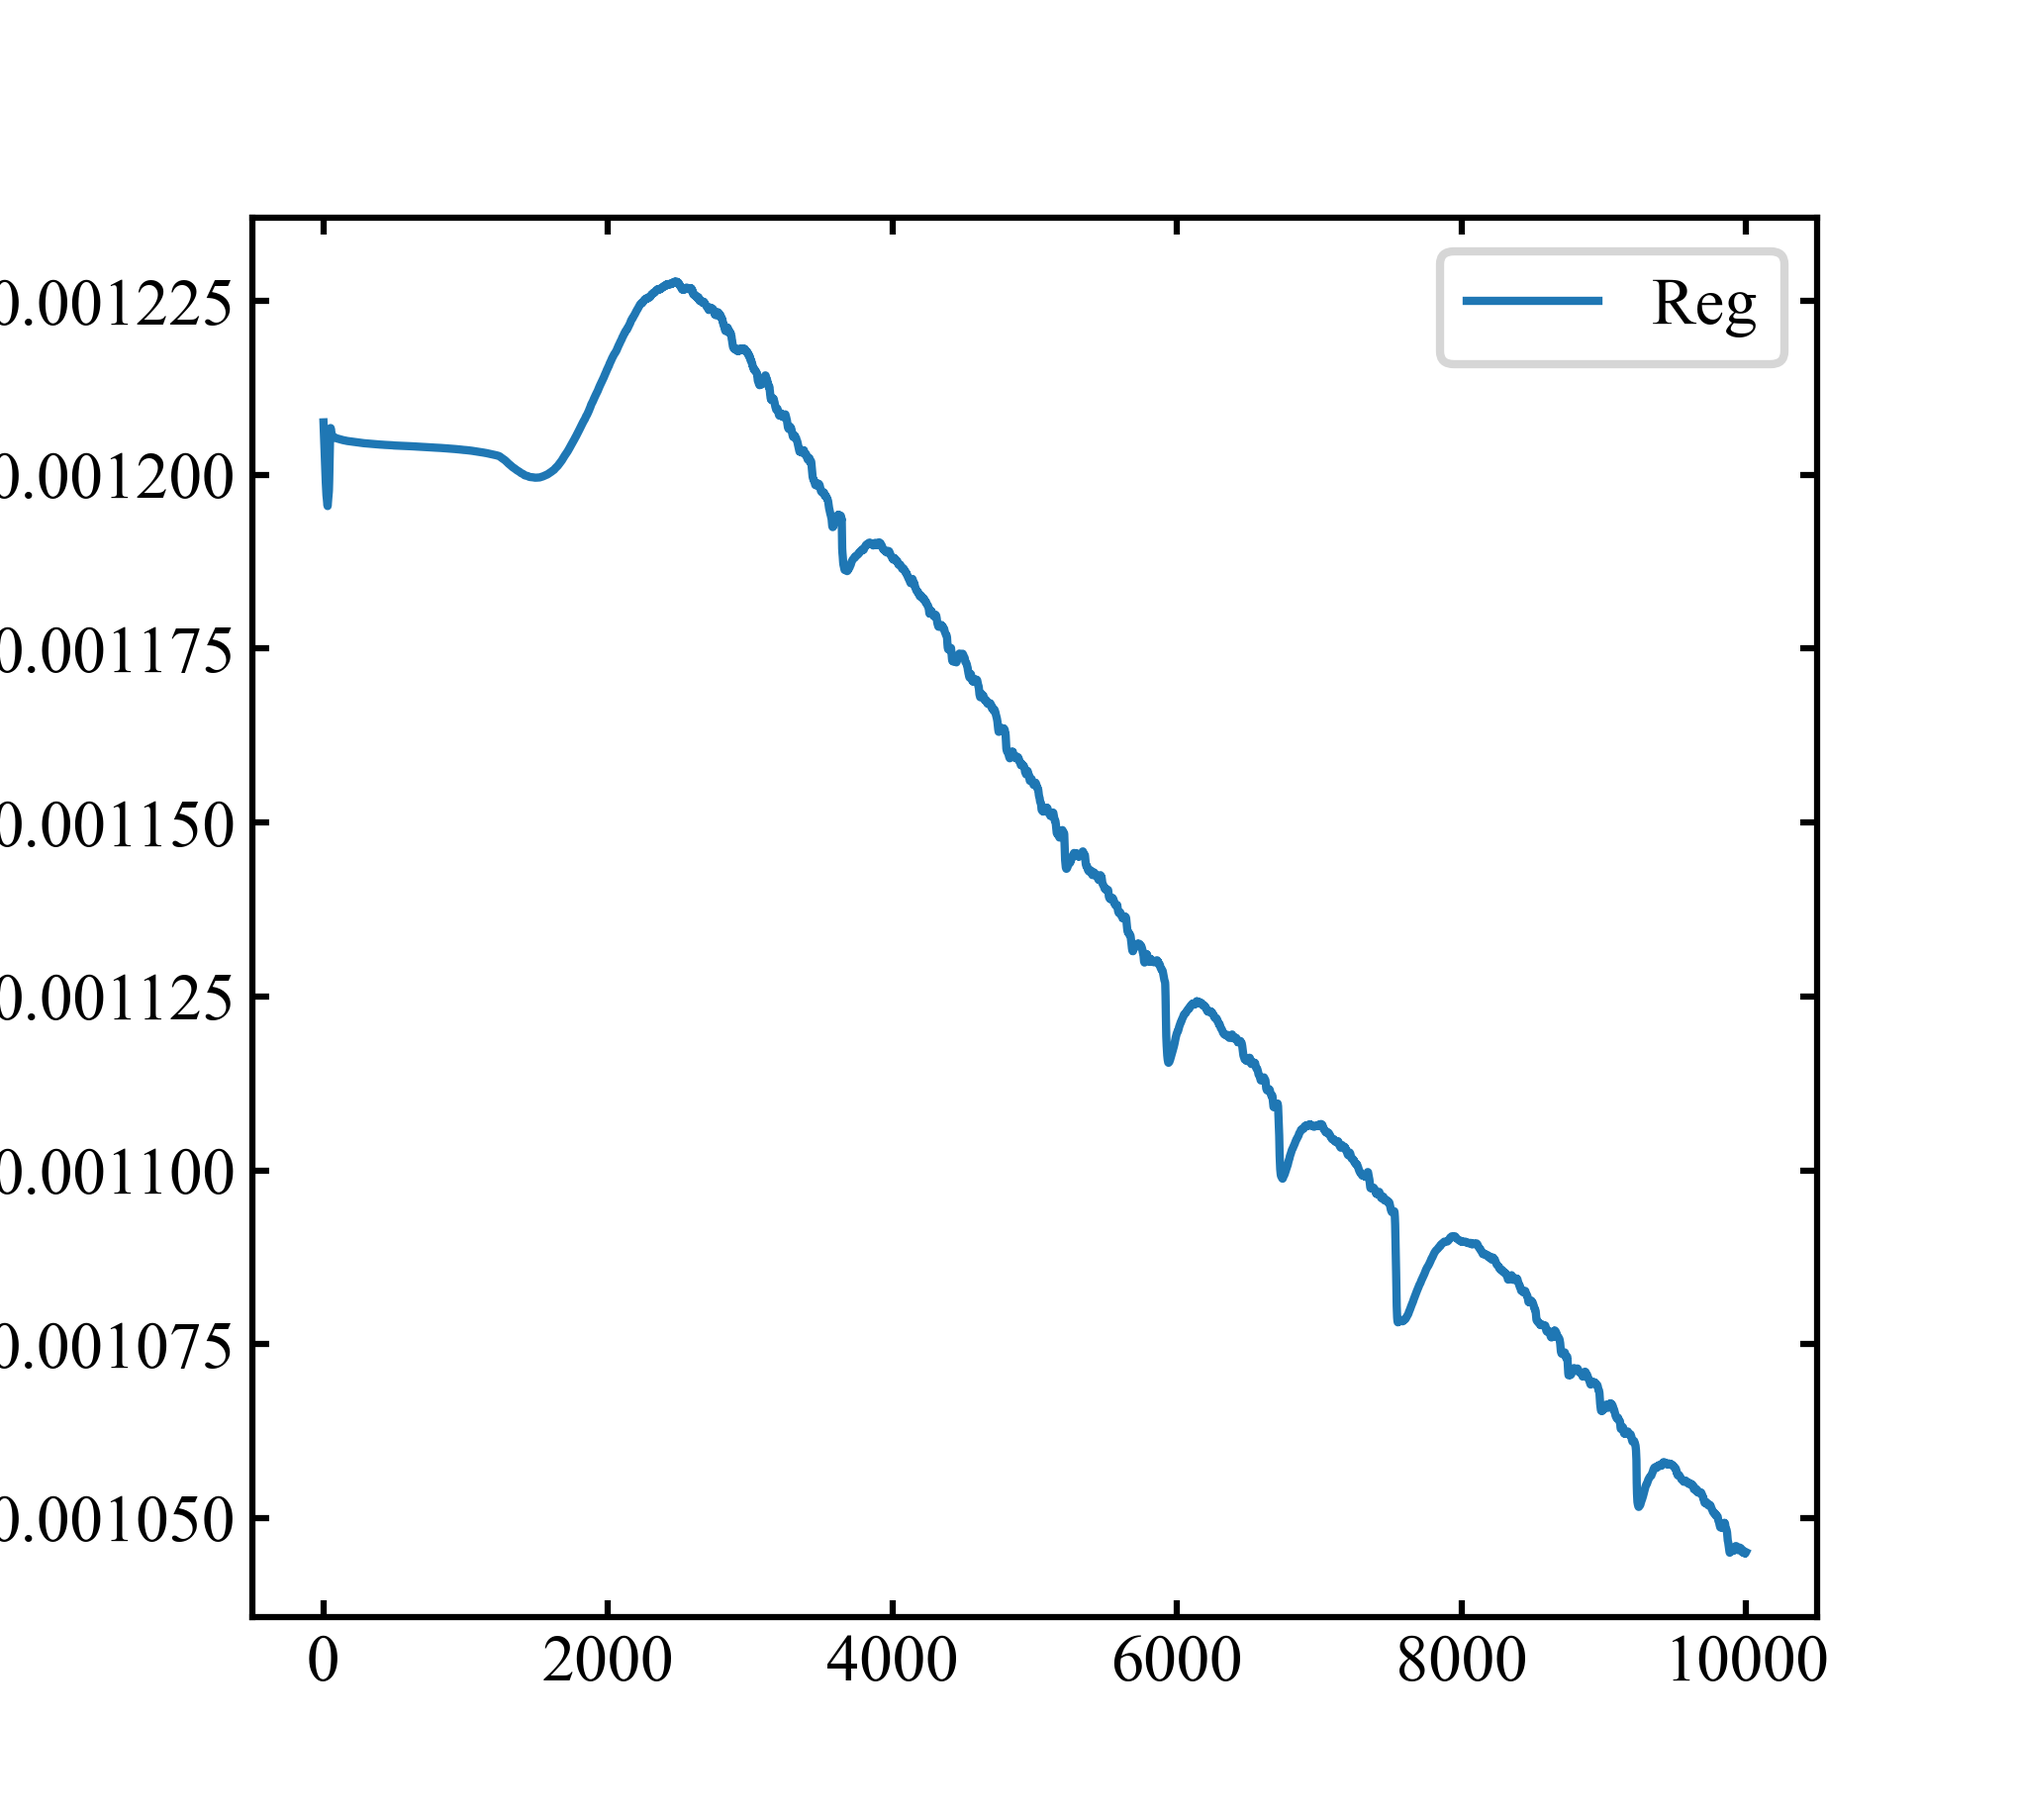
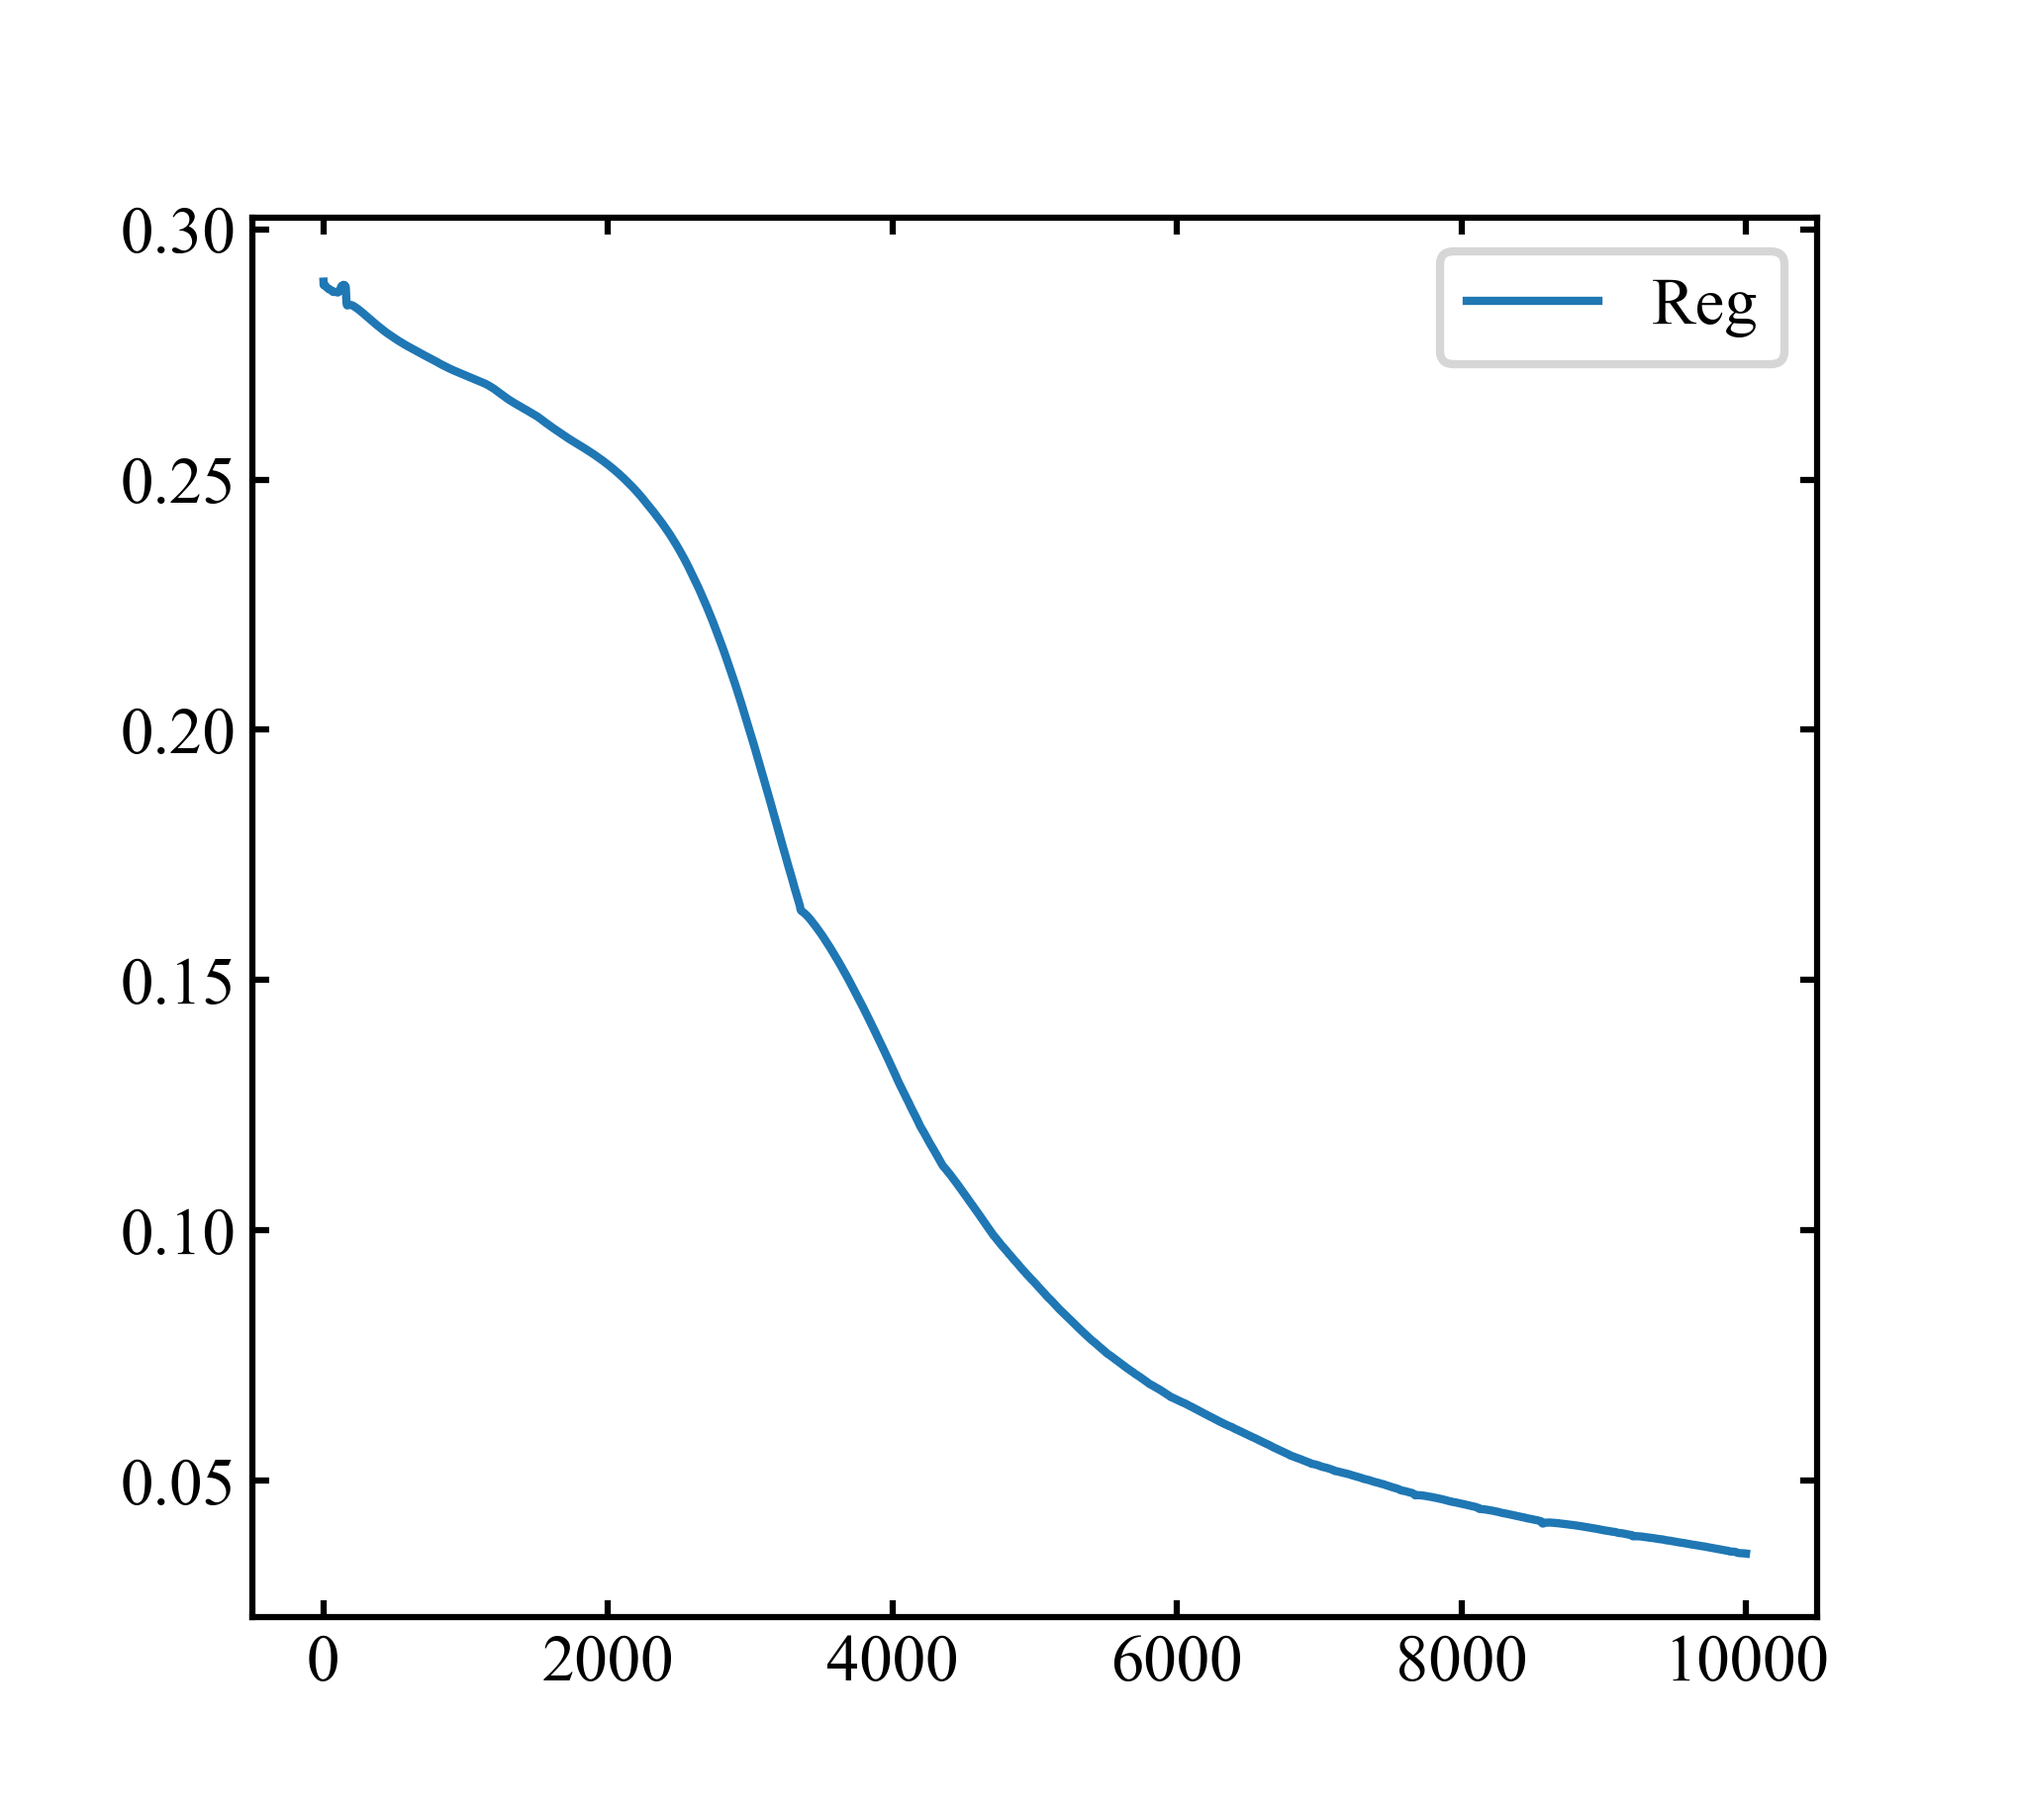
Modified regularizer
Regularizer is modified to reduce the change of derivative of the metric.

diff --git a/main.py b/main.py
@@ -36,13 +36,13 @@ print('Initial metric extracted')
 
 # Set loss function & optimizer
 criterion = NN.L1Loss(reduction = 'sum')
-optimizer = optim.Adam(model.parameters(), lr = 0.001)
+optimizer = optim.Adam(model.parameters(), lr = 0.0009)
 
 epochs = 10000
 losses = []
 norms = []
 regs = []
-c_reg = 0.006
+c_reg = 9e-2
 
 test = False
 
@@ -60,9 +60,11 @@ for curEpoch in range(epochs):
             print(y)
             test = False
         regularizer = torch.zeros(1)
-        for i in range(9):
+        for i in range(8):
             # regularizer += ((1-0.1*i)**4)*((model.layers[i+1].weight[1,1]-model.layers[i].weight[1,1])**2)
-            regularizer += ((1-0.1*i)**4)*((model.layers[i+1].weight[0]-model.layers[i].weight[0])**2)
+            # regularizer += ((1-0.1*i)**4)*((model.layers[i+1].weight[0]-model.layers[i].weight[0])**2)
+            # regularizer += ((model.layers[i+2].weight[1,1]-2*model.layers[i+1].weight[1,1]+model.layers[i].weight[1,1]))**2
+            regularizer += ((model.layers[i+2].weight[0]-2*model.layers[i+1].weight[0]+model.layers[i].weight[0]))**2
         loss = criterion(y_pred.view_as(y), y)**2 + c_reg * regularizer
         loss.backward()
         optimizer.step()
@@ -71,7 +73,7 @@ for curEpoch in range(epochs):
         batch_reg += regularizer.item() * c_reg
         # Apply constraint
         # for layer in model.layers:
-        #     layer.weight = NN.Parameter(torch.Tensor([[1, -0.1],[0.1, layer.weight[1,1].item()]]))
+        #    layer.weight = NN.Parameter(torch.Tensor([[1, -0.1],[0.1, layer.weight[1,1].item()]]))
     losses.append(batch_loss)
     norms.append(batch_norm)
     regs.append(batch_reg)

diff --git a/nn.py b/nn.py
@@ -24,7 +24,8 @@ class outLayer(nn.Module):
         super(outLayer, self).__init__()
     
     def forward(self, x):
-        F = 20*x[:,1] + x[:,0] - torch.pow(x[:,0], 3)
+        F = x[:,1]
+        # F = 20*x[:,1] + x[:,0] - torch.pow(x[:,0], 3)
         return (torch.tanh(100*(F-0.1))-torch.tanh(100*(F+0.1))+2)/2
         #return torch.abs(F)
 
@@ -35,7 +36,8 @@ class genLayer(nn.Module):
         super(genLayer, self).__init__()
         
     def forward(self, x):
-        F = 20*x[0,1] + x[0,0] - x[0,0]**3
+        F = x[0,1]
+        # F = 20*x[0,1] + x[0,0] - x[0,0]**3
         return torch.abs(F)
 
 # Neural network, eta_ini = 1, eta_fin = 0.1, delta_eta = -0.1, N = 10
